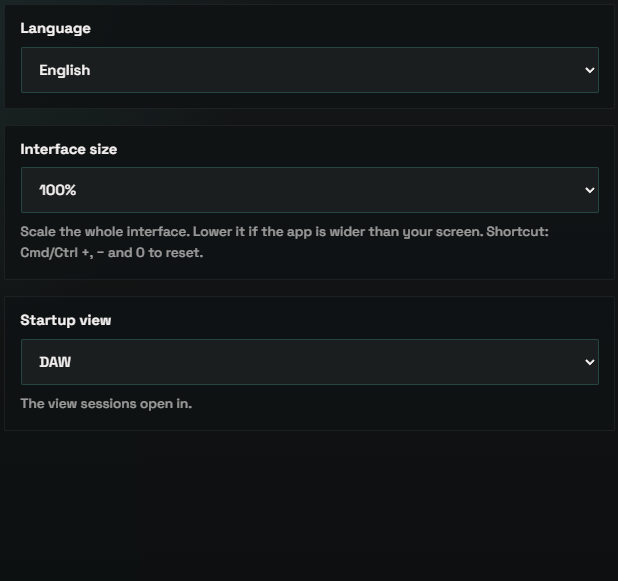
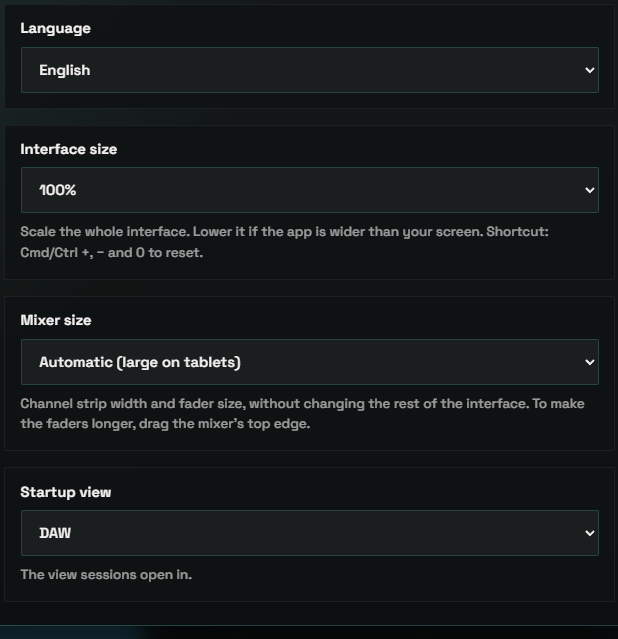
docs(guide): tamaño del mezclador, reordenar canciones y alto de la consola
- Configuración › Interfaz: «Tamaño del mezclador» y escala hasta 150 %,
  captura rehecha en es/en.
- Regla: reordenar canciones arrastrando y «Mover antes/después».
- Compacta: alto del mezclador arrastrando su borde; Setlist: consola
  alargable en tablet.
- guide-shots: una pestaña de ajustes que apenas desborda se captura una
  vez estirando el panel, no en dos páginas casi iguales.

diff --git a/tests/e2e/specs/guide-shots.e2e.ts b/tests/e2e/specs/guide-shots.e2e.ts
@@ -744,14 +744,42 @@ describe("user guide screenshots", function () {
       });
       // Long tabs: one capture per screenful of the panel, scrolling the
       // panel itself; a tab that fits is captured once.
-      const pages = await runInPage(() => {
+      const { pages, overflow, innerHeight } = await runInPage(() => {
         const scroller = document.querySelector(".lt-settings-tab-panels");
-        if (!scroller) return 1;
+        if (!scroller) return { pages: 1, overflow: 0, innerHeight: window.innerHeight };
         scroller.scrollTop = 0;
         const overflow = scroller.scrollHeight - scroller.clientHeight;
-        if (overflow <= 8) return 1;
-        return Math.min(5, 1 + Math.ceil(overflow / (scroller.clientHeight - 80)));
+        const pages = overflow <= 8 ? 1 : Math.min(5, 1 + Math.ceil(overflow / (scroller.clientHeight - 80)));
+        return { pages, overflow, innerHeight: window.innerHeight };
       });
+      // A tab only a little taller than the panel would come out as two
+      // near-identical pages: lengthen the emulated viewport, let the panel
+      // and the modal grow to fit it, and shoot it once.
+      if (pages > 1 && overflow <= 200) {
+        await withTallViewport(innerHeight + overflow + 60, async () => {
+          await runInPage((extra: number) => {
+            const scroller = document.querySelector<HTMLElement>(".lt-settings-tab-panels");
+            const modal = document.querySelector<HTMLElement>(".lt-settings-modal");
+            if (!scroller || !modal) return;
+            const grow = (el: HTMLElement) => {
+              const h = el.getBoundingClientRect().height;
+              el.dataset.ltShotStyle = el.getAttribute("style") ?? "";
+              el.style.maxHeight = "none";
+              el.style.height = `${h + extra}px`;
+            };
+            grow(modal);
+            grow(scroller);
+          }, overflow + 4);
+          await shot(`settings-${id}`, { selector: ".lt-settings-tab-panels", margin: 4 });
+          await runInPage(() => {
+            document.querySelectorAll<HTMLElement>("[data-lt-shot-style]").forEach((el) => {
+              el.setAttribute("style", el.dataset.ltShotStyle ?? "");
+              delete el.dataset.ltShotStyle;
+            });
+          });
+        });
+        continue;
+      }
       // Lists (shortcuts, MIDI Learn) only need their first screen: the page
       // explains how they work, not every row. The filename keeps its "-1".
       const pagesToShoot = ["shortcuts", "midiLearn"].includes(id) ? 1 : pages;
